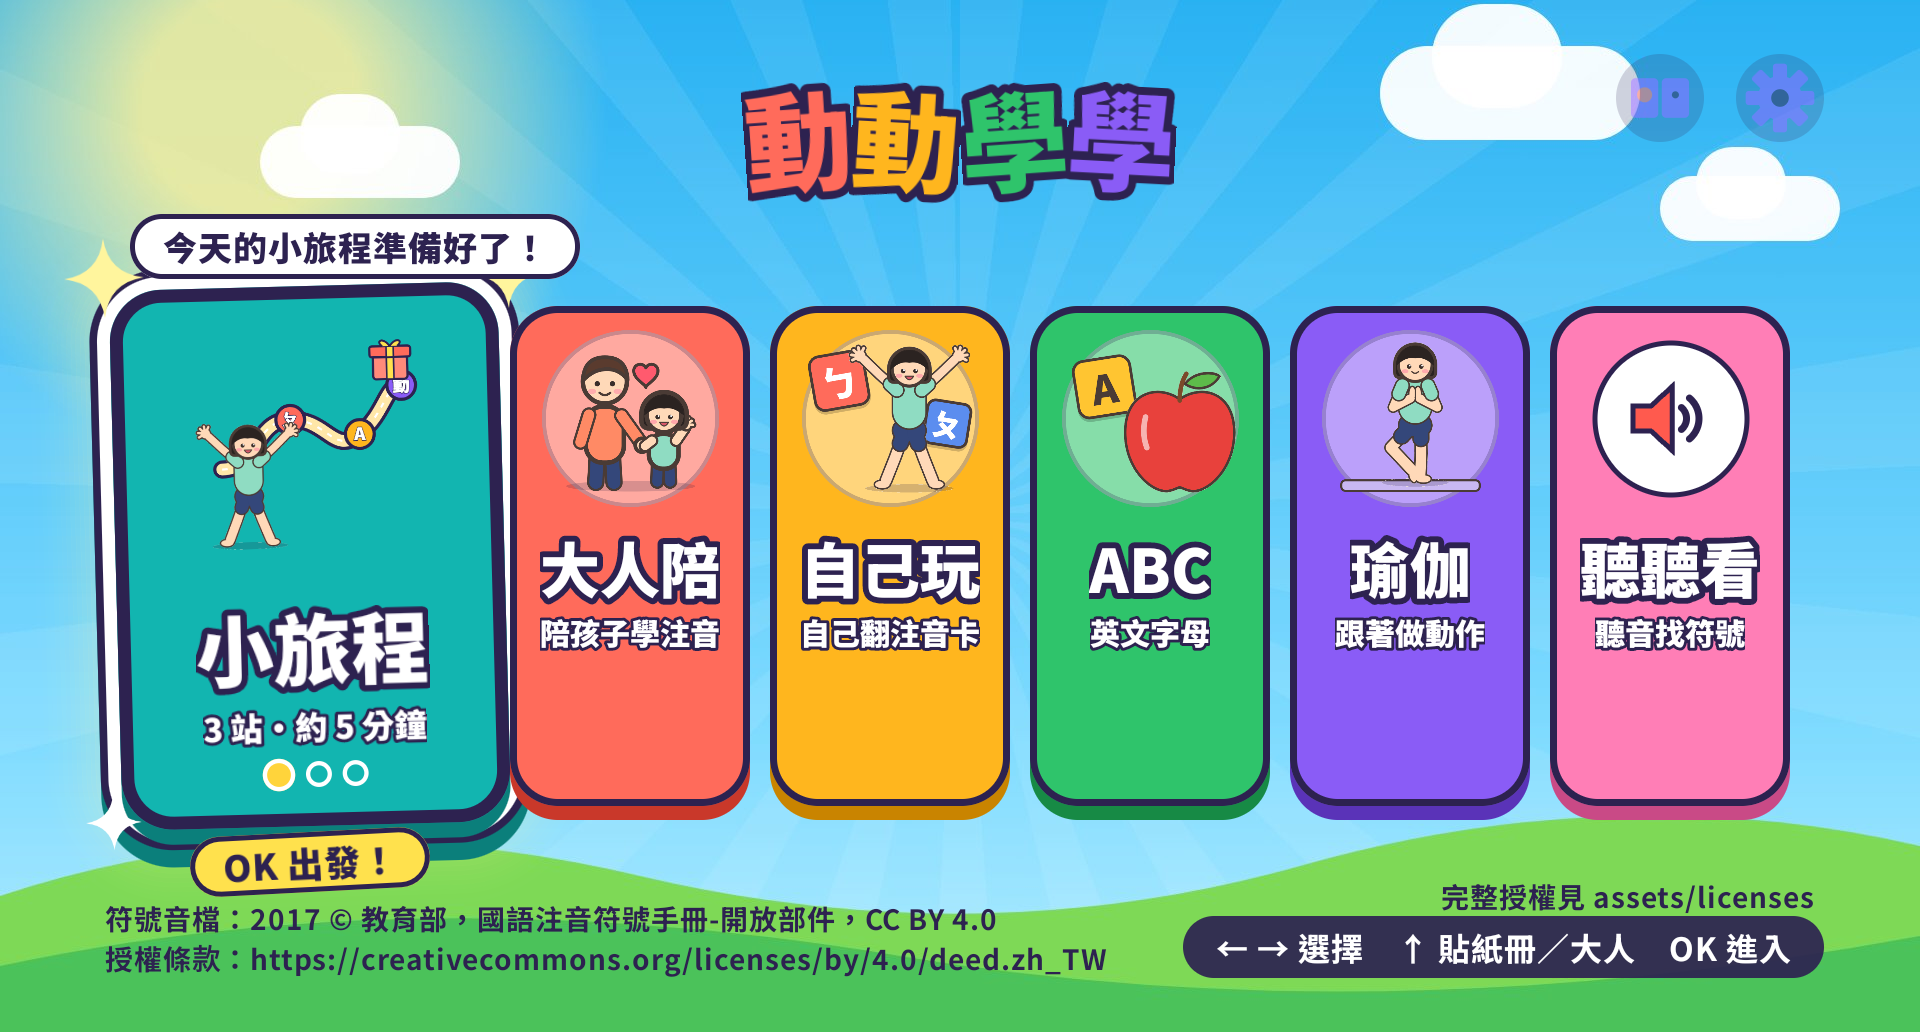
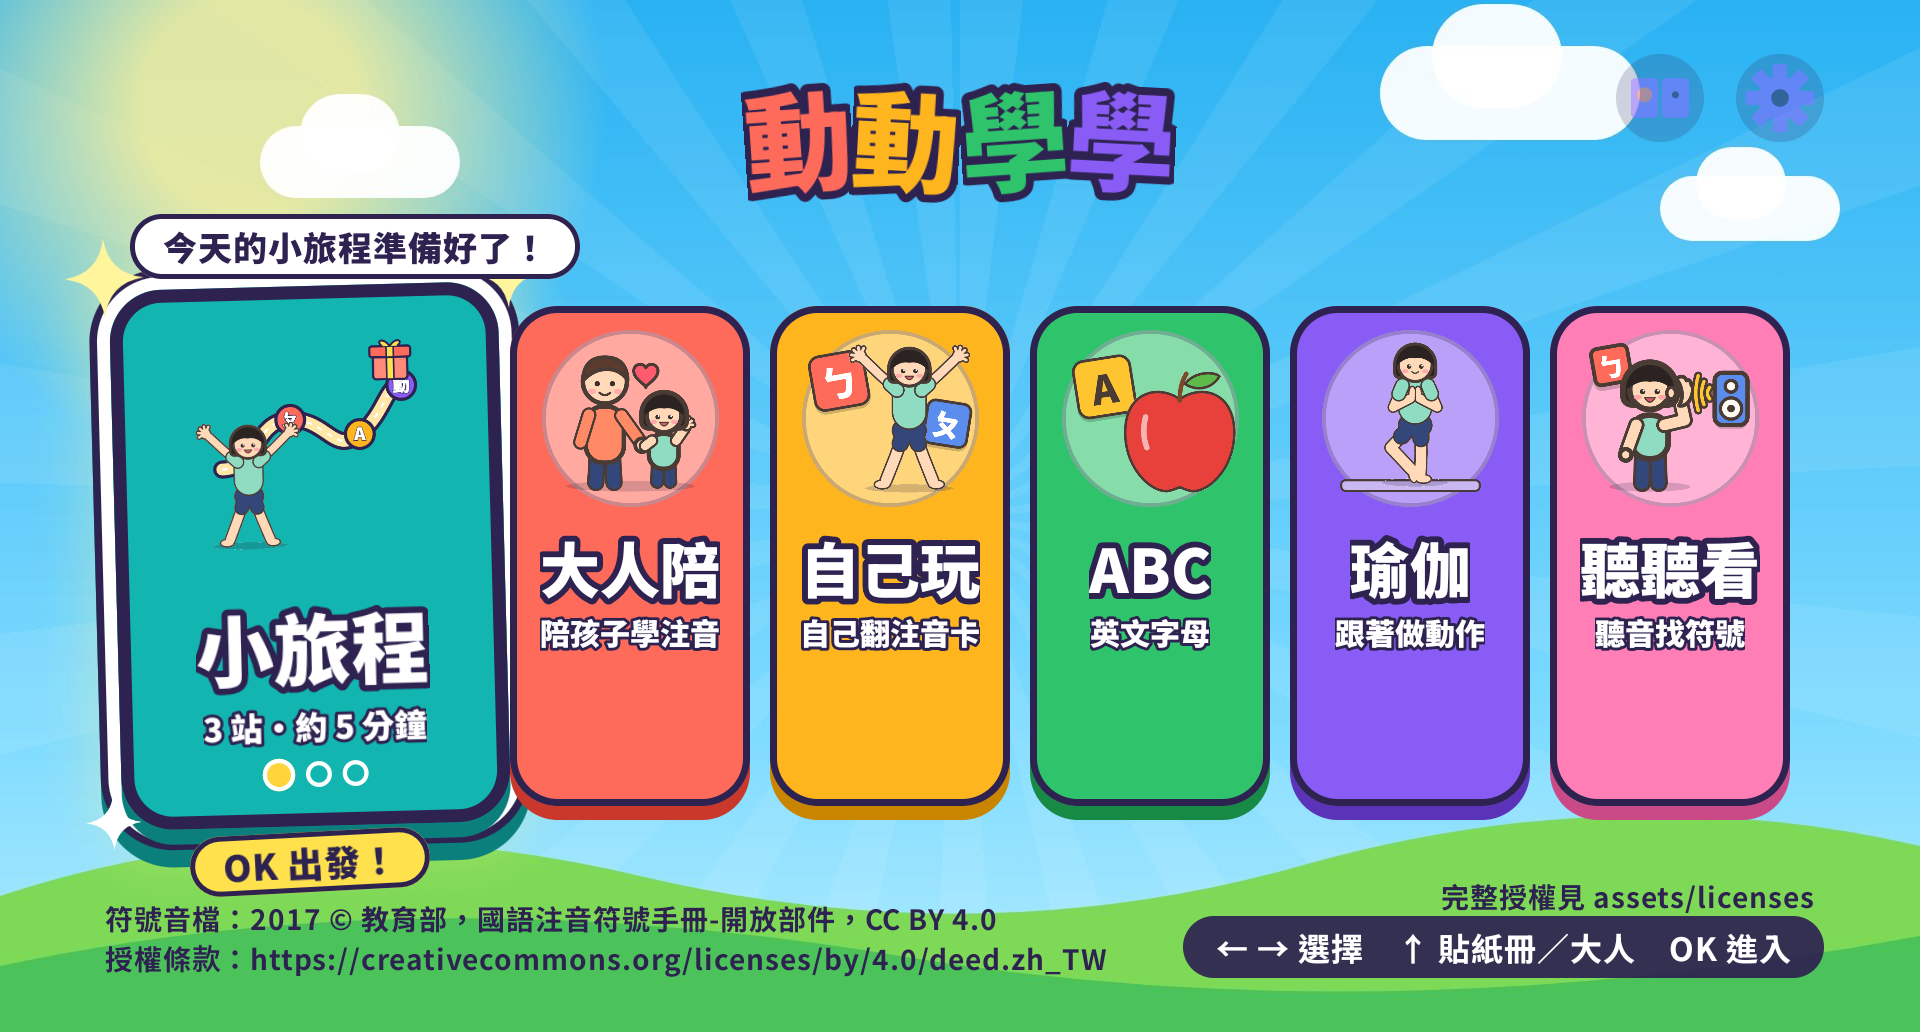
Update decisions and README screenshots for the listen card, easy-pose safety notes and stroke size

Changed region(s): [[0.8125, 0.3101, 0.9375, 0.4961]]

diff --git a/docs/decisions.md b/docs/decisions.md
@@ -113,6 +113,7 @@
 - 簡單版：`yoga/easy.json` 列出哪些動作要簡單版、簡單版的圖（`yoga/img-easy/`）、口令與口令音。只有 needEasy=true 而且圖在 assets 的動作才顯示切換；簡單版口令音不在就用原版音。
   - 動作頁下鍵換簡單版、上鍵換回。口令段切換會重播那一版口令；倒數段只換圖和字，倒數不重來。
   - 每個動作分開記住（DataStore `yoga_easy`）。
+  - 簡單版安全提醒：easy.json 每個簡單版有 `safety` 欄（姿勢不同，原版提醒會講錯）。簡單版畫面顯示它，沒有就退回一般版提醒。單元測試檢查每個 needEasy 都有。
 - 長度標示：「約 N 分鐘」＝(開場＋每輪口令與倒數＋結束)，四捨五入，至少 1。口令長度在背景用 MediaMetadataRetriever 讀。
 - 從上次繼續：DataStore `resume`＝`模式|時間|套|第幾個`。進自己玩、ABC、小旅程、瑜伽套時存，瑜伽每換一個動作更新。做完一套瑜伽、走完小旅程、進大人陪或聽聽看就清掉。
   - 只在打開 App 後第一次到首頁看一次。沒超過 1 天（時間倒退也不顯示）就在那張卡加「接著玩 ▶」，焦點先放在它。進任何模式就收起來。
@@ -120,7 +121,8 @@
 - 聽音找符號：首頁第 6 張「聽聽看」→ 選注音或 ABC → 3 張卡，左右選、OK 作答、上鍵直接重播。
   - 題目優先出看過的（翻過的、有貼紙的、大人陪練過的），不連續出同一個；另外 2 張從全部選。
   - 答對：卡翻成例詞圖、主題答對回饋；回饋播完才給貼紙，兩個動畫不疊在一起。答錯：卡搖一下變淡，不打叉、不用紅色，再播一次。
-  - 「聽聽看」卡還沒有插圖，先用程式畫的喇叭（`entryArt` 第 6 個是 null）。
+  - 答對到下一題之間，上方「聽聽看，是哪一個？」隱藏，不和「答對了」「拿到新貼紙！」大字疊在一起。下一題等貼紙動畫播完（2.6 秒）才出，出現時淡入。
+  - 「聽聽看」卡插圖：`theme/{a,b,c}/entry/entry_listen.png`（程式繪製，同其他入口圖）。
 - 首頁改 6 張卡：小旅程 180 dp、其他 120 dp、間距 10 dp；卡名 30 sp（小旅程 36 sp）。焦點標籤可以比卡寬，但不撐寬那一欄。
 - 首頁授權標示：左下兩行（出處與授權、CC BY 4.0 授權網址），右下「完整授權見 assets/licenses」放在按鍵提示上面。網址寫在畫面上，因為電視上打不開 APK 裡的檔。
 
@@ -133,6 +135,7 @@
   - 沒有這個符號的筆順檔時，按鍵行為和以前一樣。
 - 畫法：Compose Canvas。`PathParser` 把路徑字串轉成 Path，`PathMeasure.getSegment` 沿路徑方向從起筆取到目前長度。
   - 符號大字換成同大小的畫布。未畫的筆畫是淡色底稿（全部筆畫合成一條路徑畫一次，交叉處不會變深）。
+  - 路徑在 1024 方框裡留了邊、筆寬比 Black 字重細。畫布以中心放大 1.2 倍、筆寬 ×1.45、下移 6.25%，讓筆順字和字型大字一樣大、一樣粗，按下去不會「縮一下」。數值是 37 個符號和 Noto Sans TC Black 比對外框與粗細的中位數。
   - 顏色用主題符號色；B 加深色外框，C 加金色光暈，和符號大字一致。
   - 每筆 0.6～0.9 秒（越長越久，`StrokeTiming`），筆間停 0.2 秒。畫完停著，再按一次從第一筆重畫。換卡就收起來。
   - 大卡左上角顯示「第 N 筆」，畫完顯示「共 N 筆」。
